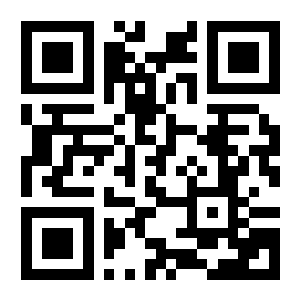
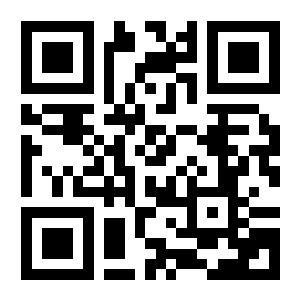
phoenix global

diff --git a/src/Pages/ExpandPropertyDetails.tsx b/src/Pages/ExpandPropertyDetails.tsx
@@ -132,7 +132,7 @@ function ExpandPropertyDetails({
                 <Link to="tel:08096068042">
                   <IoCall /> <span>Call</span>
                 </Link>
-                <Link to="wa.link/1ei5j8" target="_blank">
+                <Link to="https://wa.link/7kyciy" target="_blank">
                   <BsWhatsapp />
                   <span> Whatsapp</span>
                 </Link>
